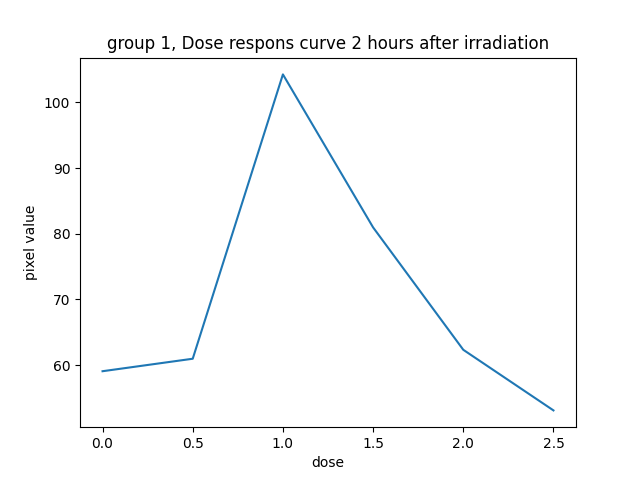
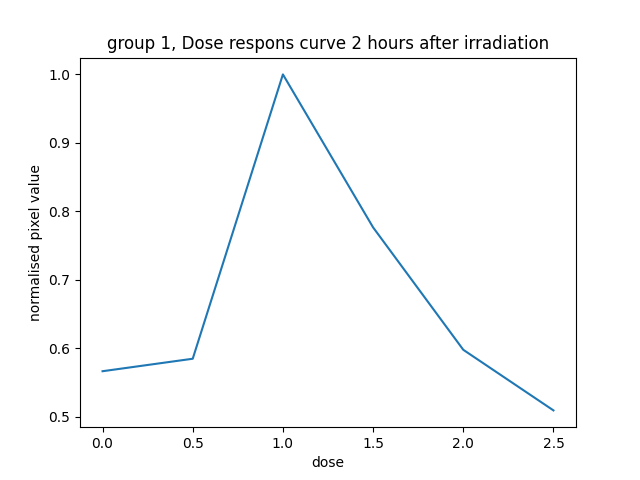
minorchanges to labels etc

diff --git a/Image.py b/Image.py
@@ -62,23 +62,23 @@ g3 = sample('p53 strip group 3', group_3x, p53_3y)
 dose = [0, 0.5, 1.0, 1.5, 2.0, 2.5]
 
 plt.title('group 1, Dose respons curve 2 hours after irradiation')
-plt.ylabel('pixel value')
+plt.ylabel('normalised pixel value')
 plt.xlabel('dose')
-plt.plot(dose, g1)
+plt.plot(dose, g1/np.max(g1))
 plt.savefig('g1')
 plt.show()
 
 plt.title('group 2, Time curve after 2Gy irradiation')
-plt.ylabel('pixel value')
+plt.ylabel('normalised pixel value')
 plt.xlabel('hours')
-plt.plot(dose, g2)
+plt.plot(dose, g2/np.max(g2))
 plt.savefig('g2')
 plt.show()
 
-plt.title('group 3')
-plt.ylabel('pixel value, Time curve after 2Gy irradiation')
+plt.title('group 3, Time curve after 2Gy irradiation')
+plt.ylabel('normalised pixel value')
 plt.xlabel('hours')
-plt.plot(dose, g3)
+plt.plot(dose, g3/np.max(g3))
 plt.savefig('g3')
 plt.show()
 
